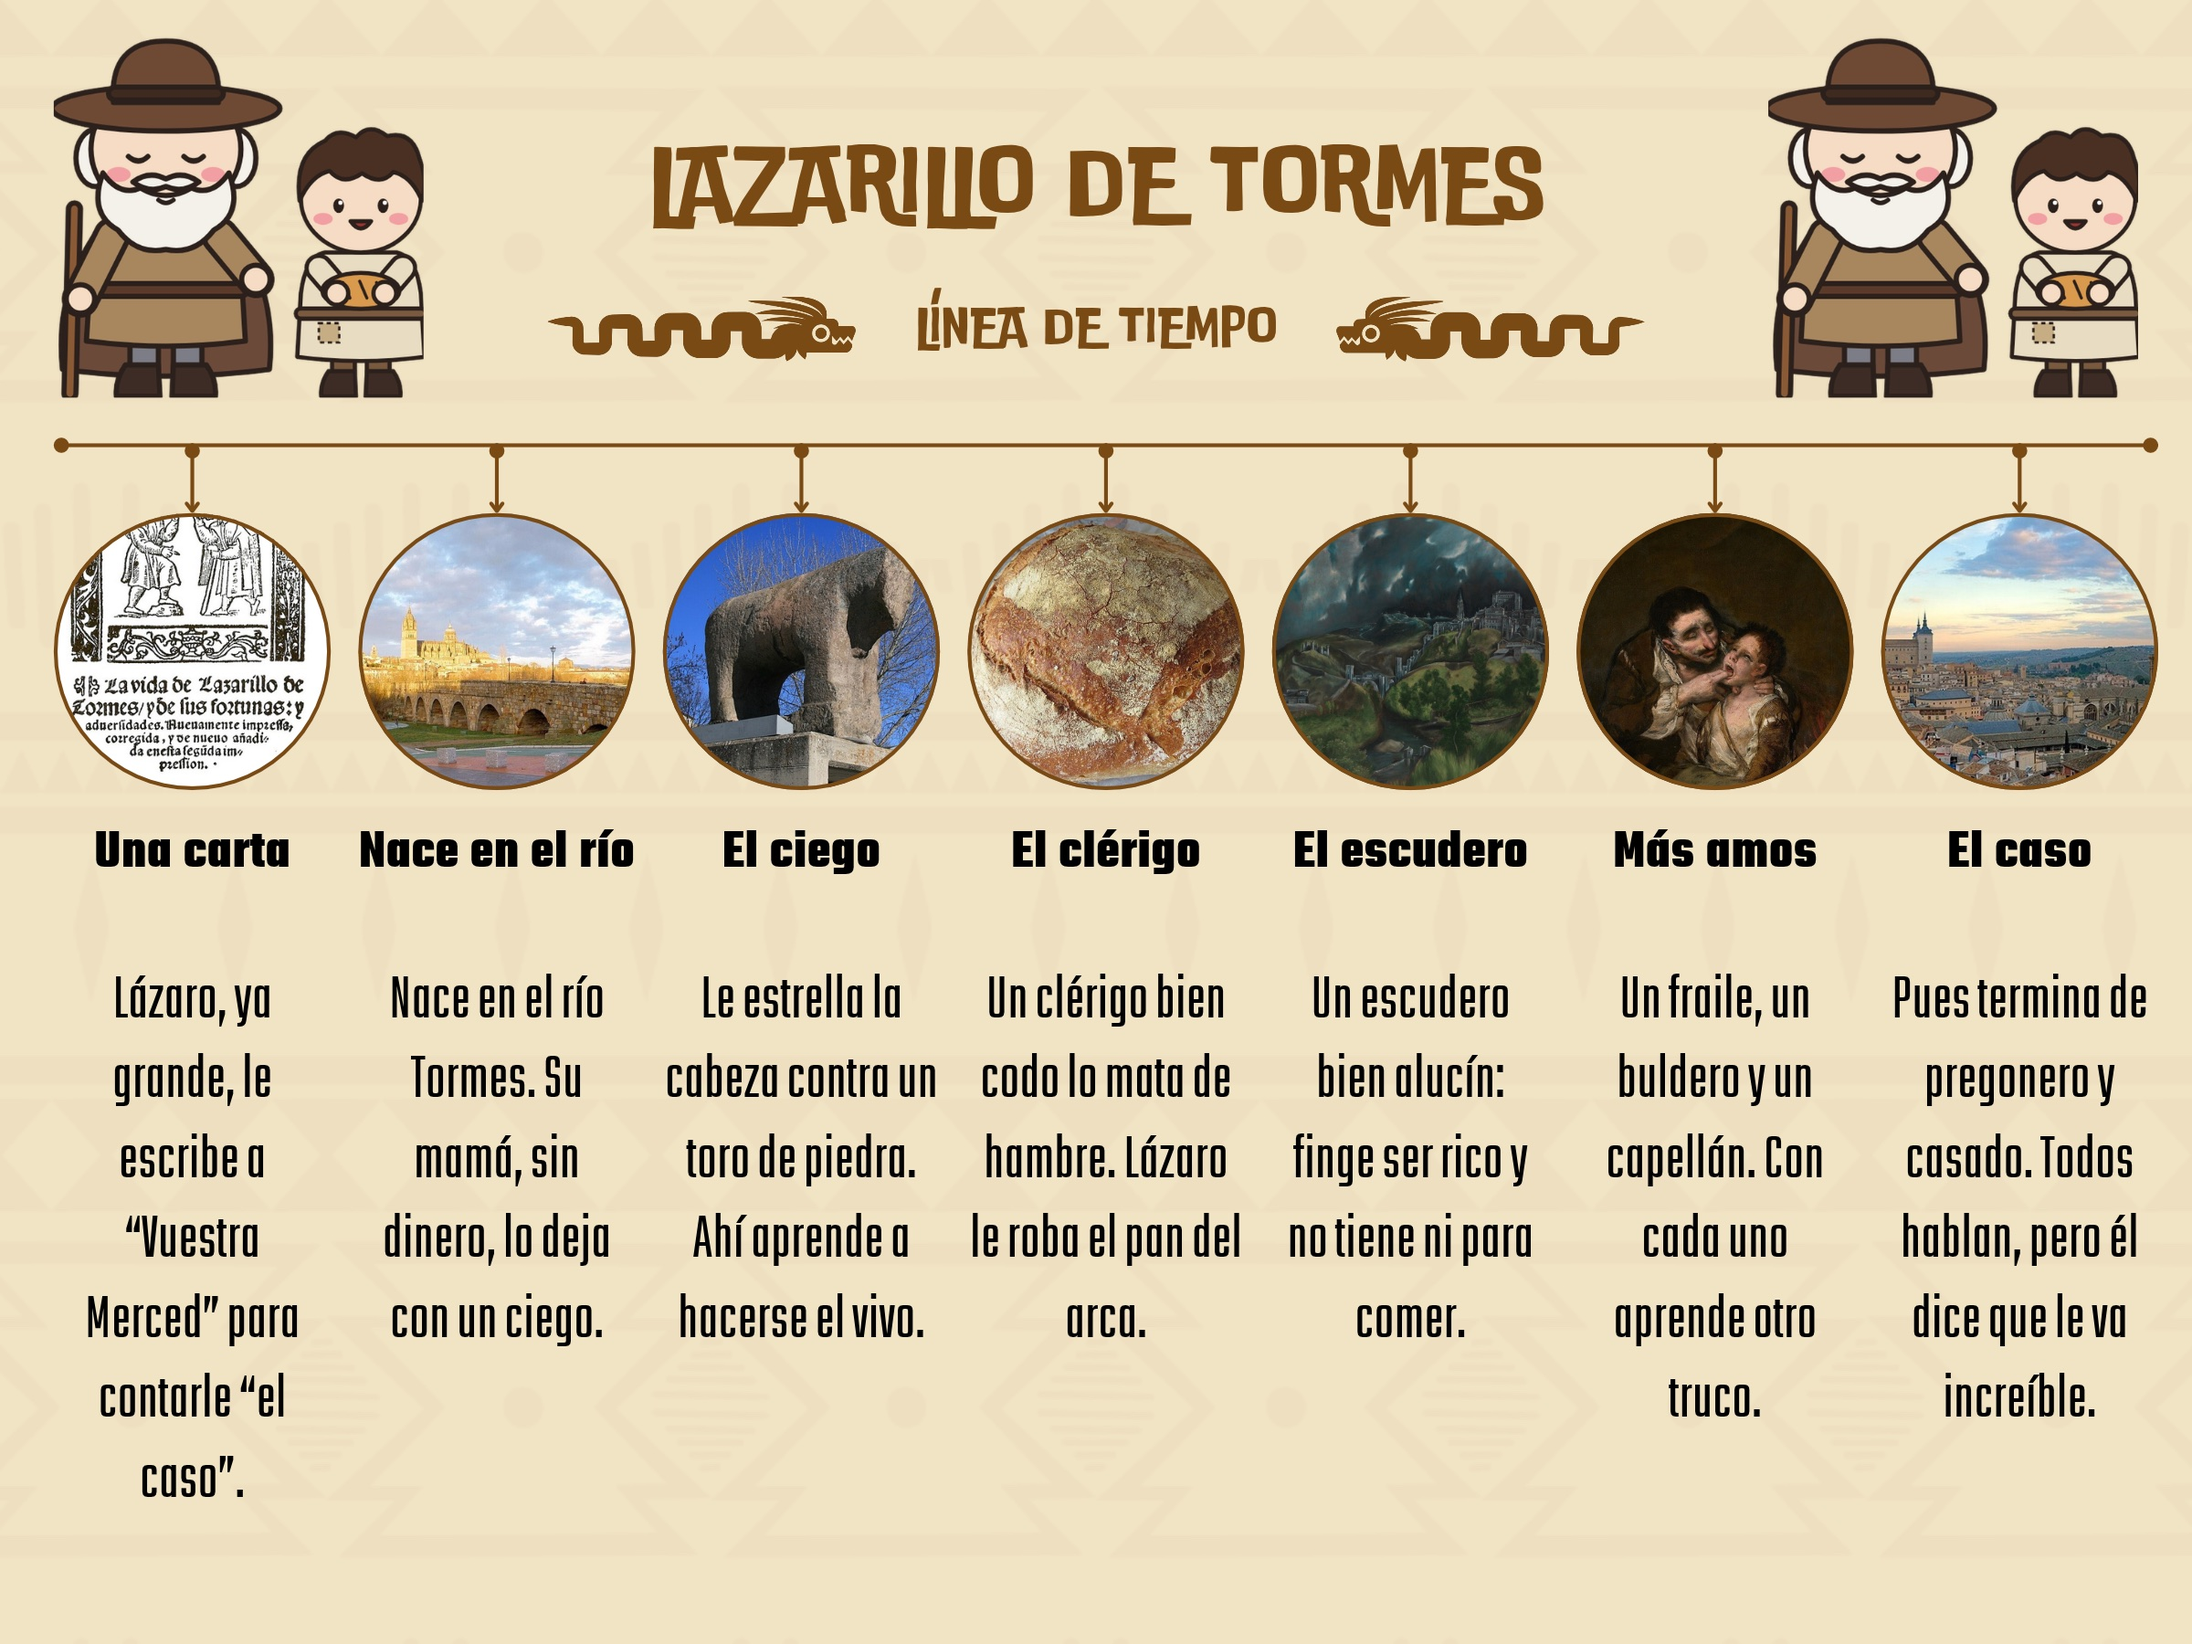
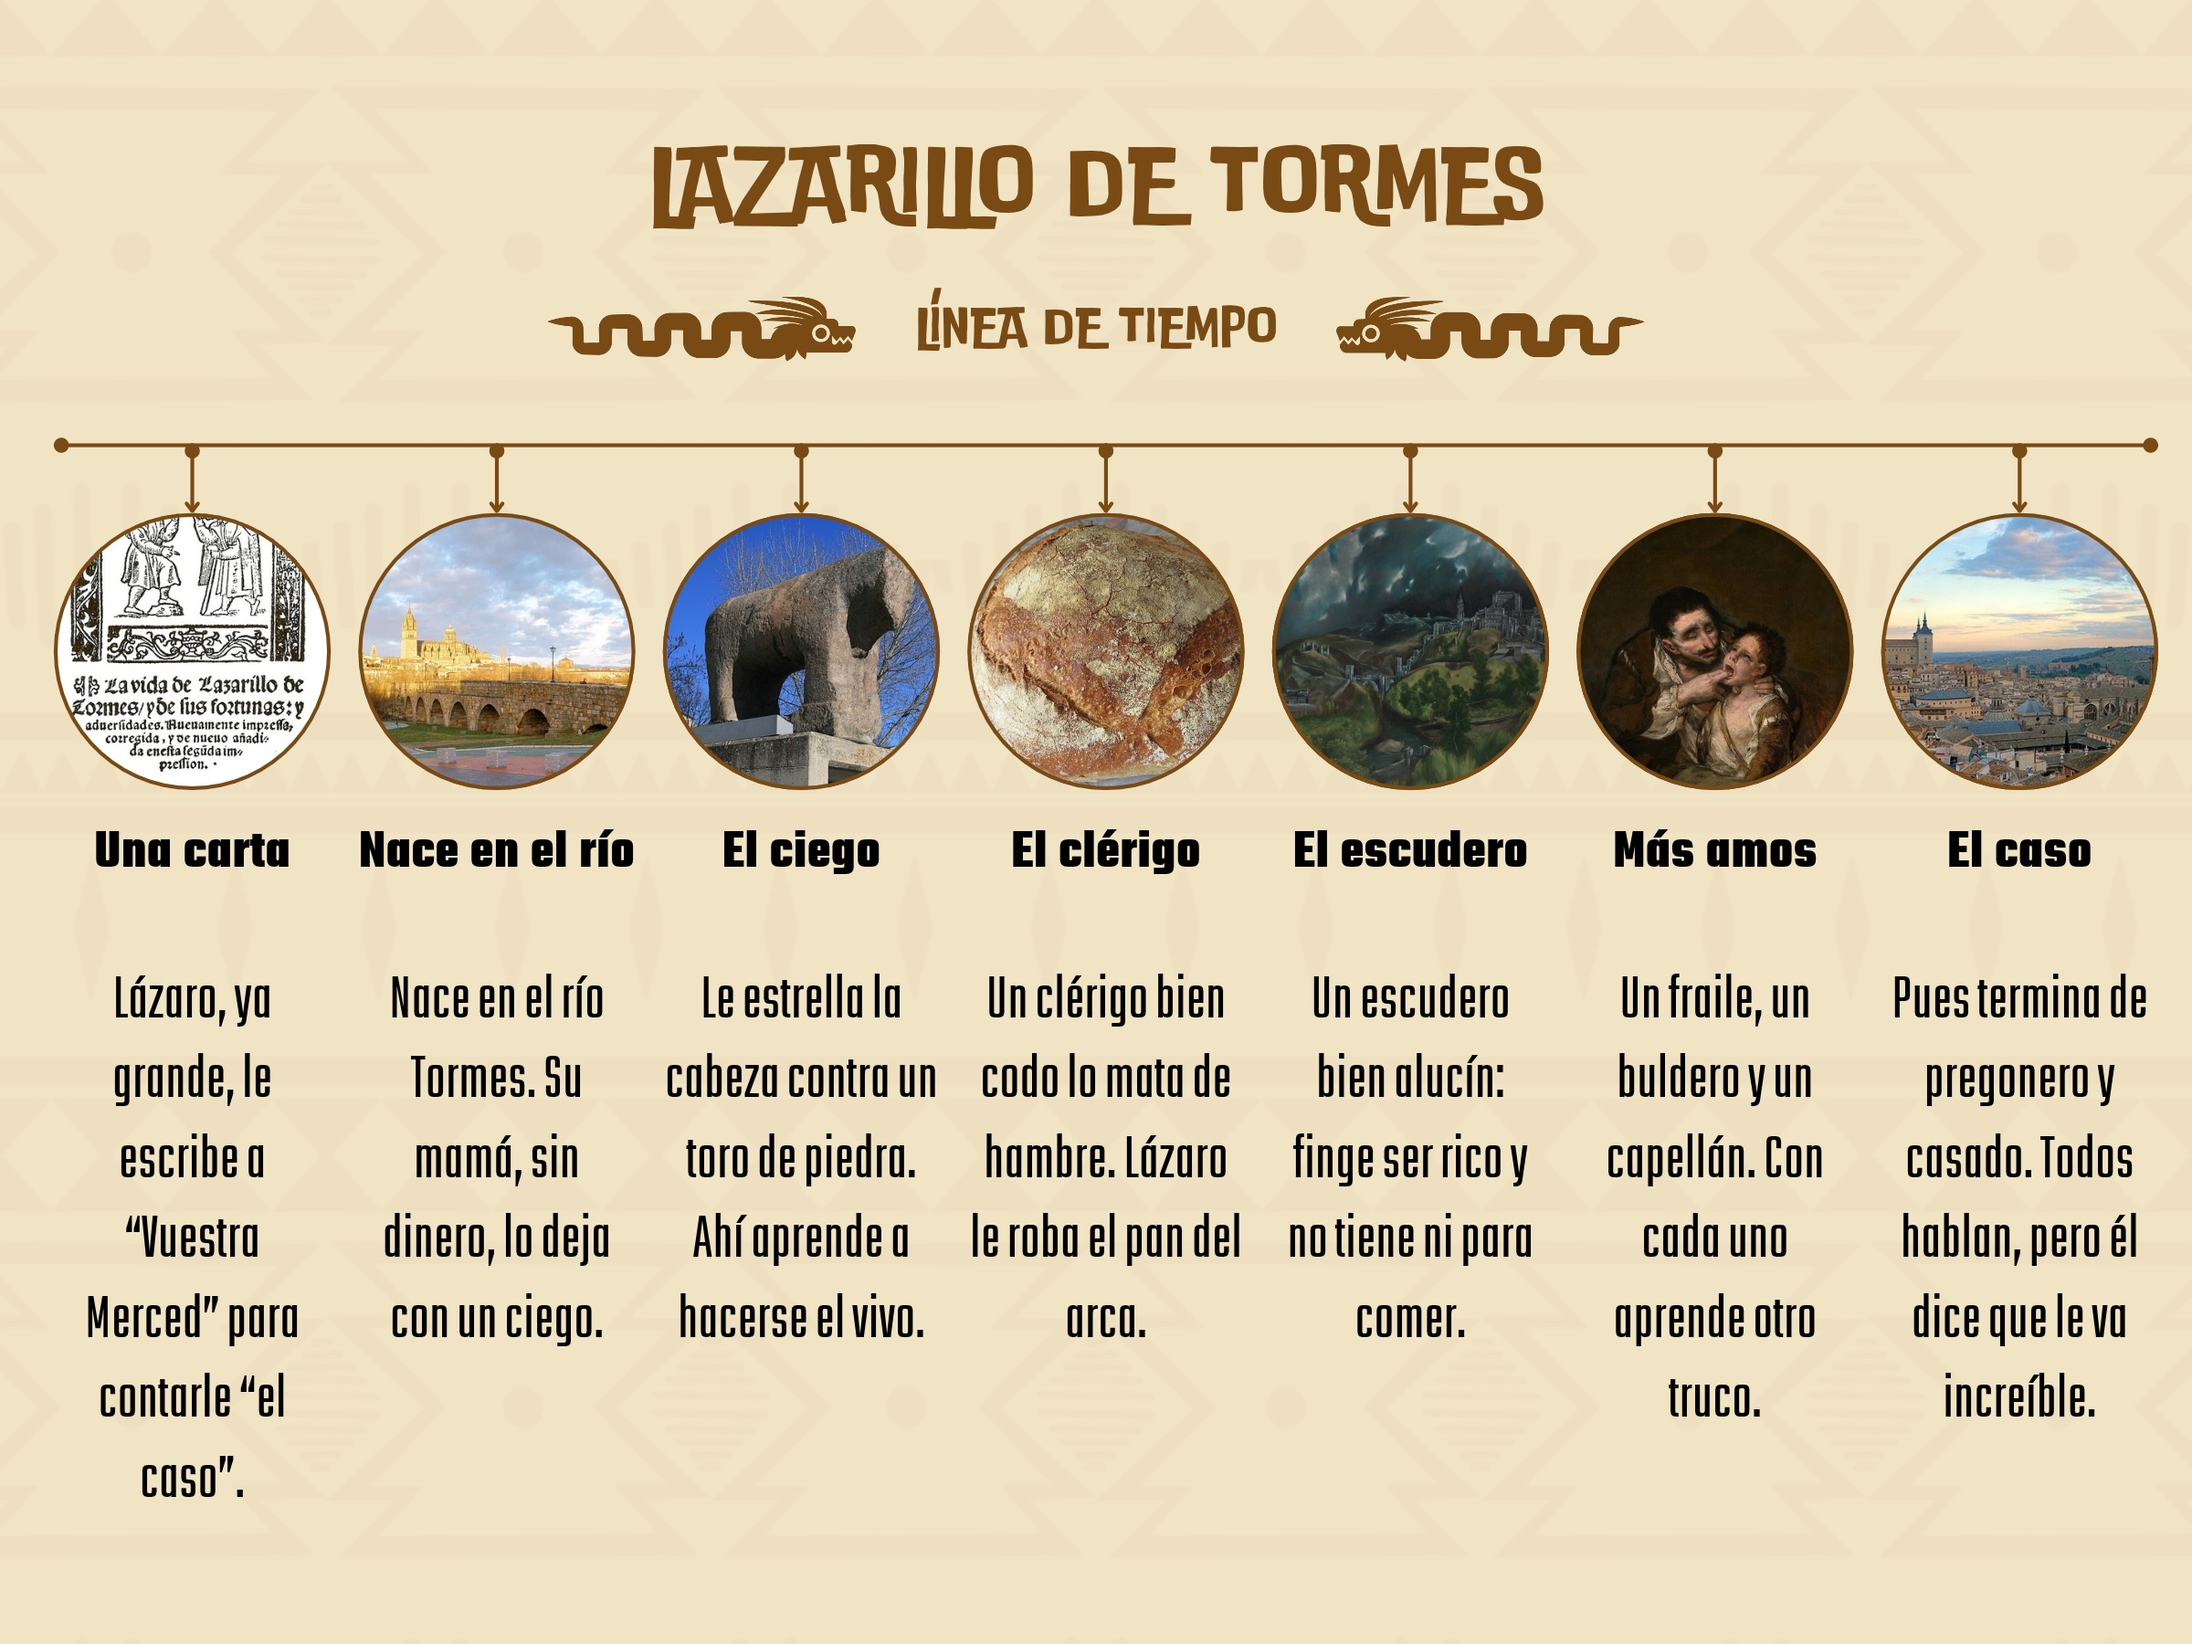
Líneas del tiempo sin stickers

Changed region(s): [[0.7812, 0.0, 1.0, 0.2489], [0.0, 0.0, 0.2188, 0.2489]]

diff --git a/js/content.js b/js/content.js
@@ -532,7 +532,7 @@ export const DATA = {
   "Sala IV: Gustave Doré, ilustraciones del Quijote, 1863; portada de la primera edición, Juan de la Cuesta, Madrid, 1605.",
   "Sala V: Valeriano Bécquer, Retrato de Gustavo Adolfo Bécquer, 1862; J. A. Naumann, golondrinas, lámina 145, siglo XIX; Flora Danica, madreselva, lámina 908, 1787.",
   "Sala VI: Eugenio Krapf (atribuida), Vigo, día de mercado, c. 1900; Thoman, Estación marítima de Vigo, c. 1920; Vida Gallega, Emigrantes del Val Miñor en Matanzas, Cuba, 1909.",
-  "Líneas del tiempo: hechas por el equipo en Canva; los stickers también los dibujó el equipo. Fotos de los círculos, además de las de arriba:",
+  "Líneas del tiempo: hechas por el equipo en Canva. Fotos de los círculos, además de las de arriba:",
   "Conde Lucanor: Codex Manesse, f. 71v, c. 1300; Jean Fouquet, Boda de Carlos IV y María de Luxemburgo, siglo XV; Clément Bardot, gallo, CC BY-SA 4.0; Herrero Uceda, Torre del castillo de Peñafiel, CC BY-SA 3.0.",
   "Lazarillo: Zarateman, Puente romano sobre el Tormes, CC0; Tamorlan, Verraco del puente de Salamanca, CC BY-SA 3.0; Juan Emilio Prades Bel, Hogaza de pan, CC BY 4.0; Diliff, Panorama de Toledo, CC BY 2.5.",
   "Visión de los vencidos: Luc Viatour, Grulla, CC BY-SA 3.0; anónimo, El encuentro de Cortés y Motecuhzoma, siglo XVII; Códice Durán, Matanza del Templo Mayor, siglo XVI; Juan Carlos Fonseca Mata, Ruinas del Templo Mayor, CC BY-SA 4.0; NotimexTV, Miguel León-Portilla, CC BY 3.0.",
